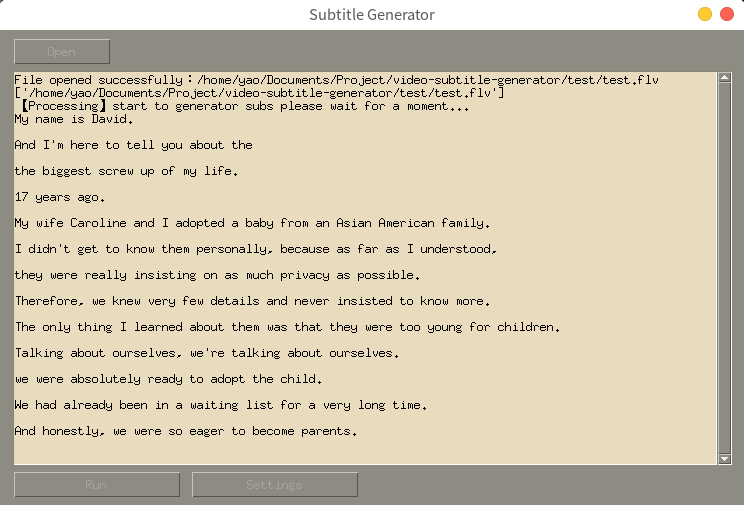
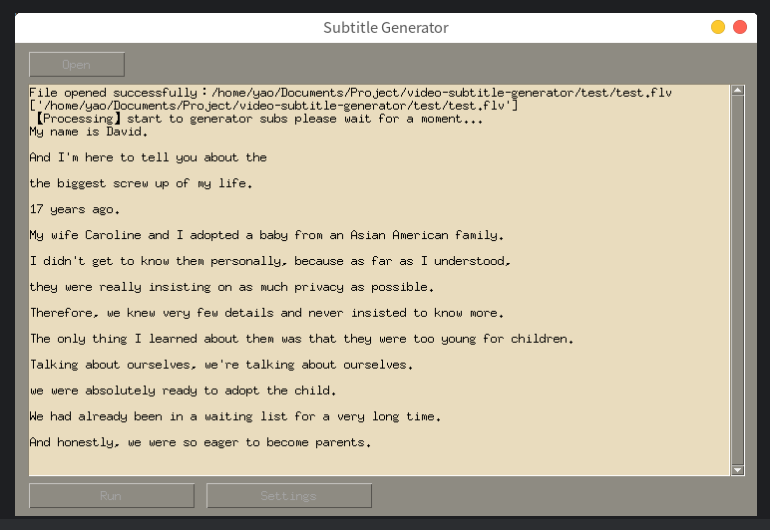
update gui.png

Changed region(s): [[0.0, 0.0, 1.0, 1.0]]

diff --git a/README.md b/README.md
@@ -4,7 +4,7 @@ Video-subtitle-generator (vsg) 是一款基于语音识别，将音频/视频生
 
 - 支持中文、英文、韩文、日文、越南语、俄语、西班牙语、葡萄语等语言的字幕生成
 
-<img src="https://github.com/YaoFANGUK/video-subtitle-generator/blob/main/design/gui.png?raw=true" alt="gui">
+<img src="https://github.com/YaoFANGUK/video-subtitle-generator/blob/main/design/gui.png?raw=true" alt="gui" border="1px" >
 
 ### DEMO
 
